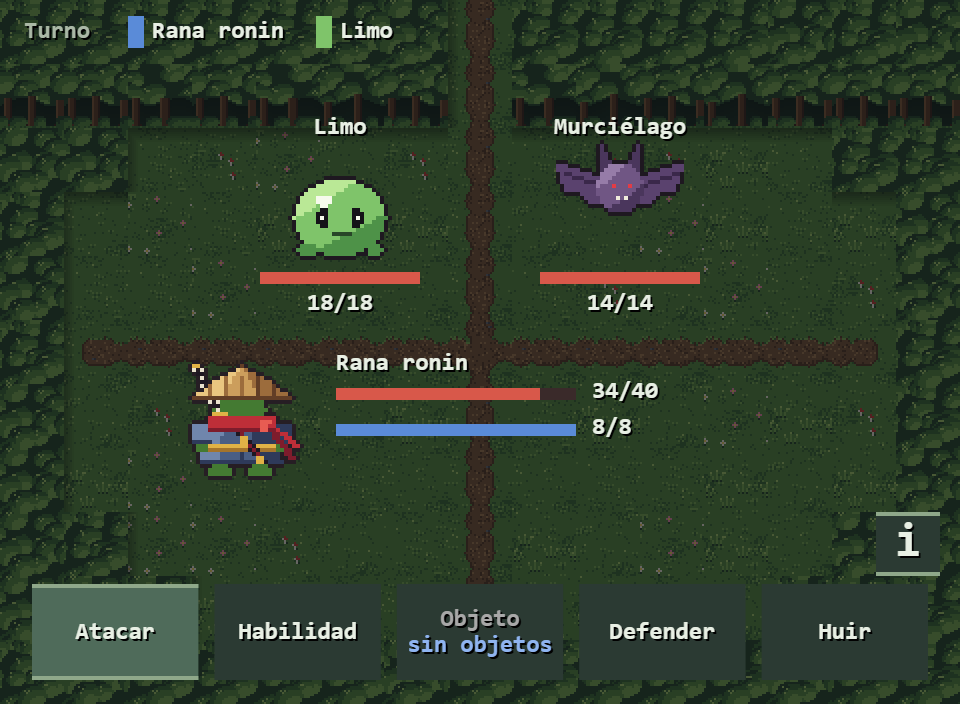
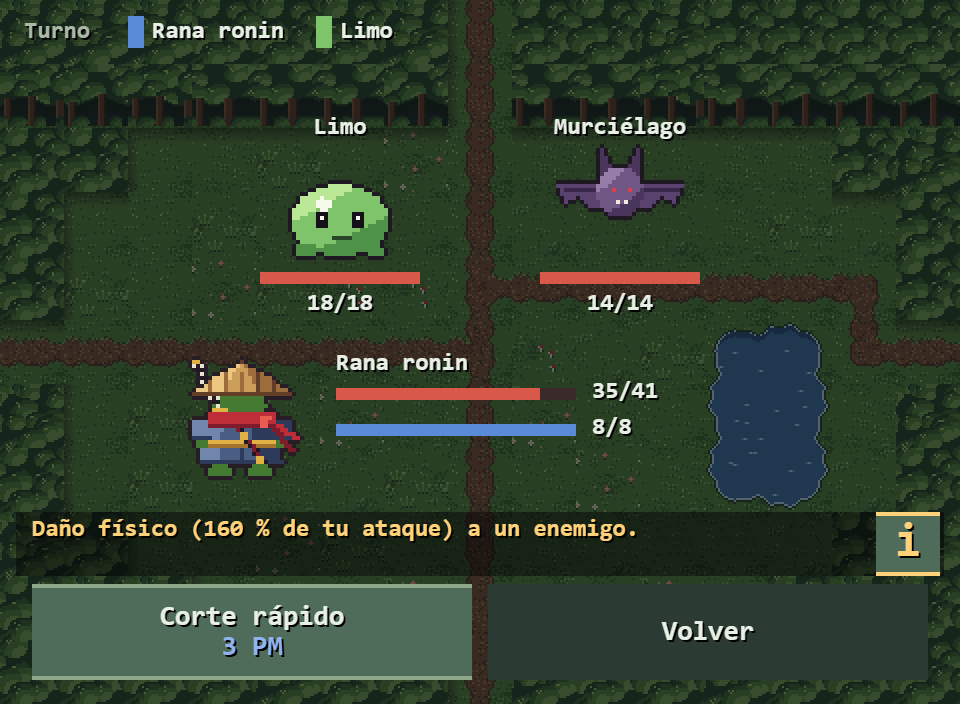
Pociones que no se gastan sin hacer nada, test de salas sin rincones cerrados y capturas nuevas
- Poción, éter y antídoto salen apagados si no harían nada (antes se gastaban y quitaban el logro de ganar sin objetos)
- Test que recorre cada sala de combate píxel a píxel y comprueba que se llega a cada casilla donde puede salir un monstruo
- README: capturas del mapa, del combate con la ayuda y del inventario en pestañas; controles al día

diff --git a/tests/plantillas.test.ts b/tests/plantillas.test.ts
@@ -1,6 +1,10 @@
 import { describe, expect, test } from 'vitest';
 import { crearAzar } from '../src/core/azar';
+import { colocarMonstruos } from '../src/core/monstruos';
+import { colisiona } from '../src/core/movimiento';
 import { construirSala, crearCatalogo, salidas } from '../src/core/sala';
+import { HEROES } from '../src/data/datos';
+import zonas from '../src/data/zonas.json';
 import type { PlantillasJson, TilesetJson } from '../src/core/types';
 import type { TipoSala } from '../src/core/zona';
 import bosque from '../src/data/salas/plantillas_bosque.json';
@@ -15,6 +19,8 @@ import ruinasAuto from '../public/assets/tilesets/ruinas_autotiles.json';
 import ruinasTiles from '../public/assets/tilesets/ruinas.json';
 
 const ZONAS: Record<string, PlantillasJson> = { bosque, ruinas, cripta };
+/** Lado de un tile en píxeles. */
+const TAM = 32;
 const TIPOS: TipoSala[] = ['inicio', 'combate', 'tesoro', 'descanso', 'jefe'];
 // Los JSON de assets traen 'layer' como string; aquí se tratan como el tipo que documentan.
 const TILESETS = {
@@ -71,4 +77,57 @@ describe.each(Object.entries(ZONAS))('plantillas de %s', (zona, plantillas) => {
       for (const o of portales) expect(vistas.has(o.y * sala.ancho + o.x)).toBe(true);
     },
   );
+
+  // Con las puertas cerradas hasta vencer a todos, un monstruo en un rincón al que la heroína no
+  // llega la dejaría encerrada. Se mira píxel a píxel con su caja real (los objetos solo chocan con
+  // su base y a veces se pasa por su lado).
+  test.each(
+    plantillas.plantillas.filter((p) => p.tipo === 'combate').map((p) => [p.id, p.mapa] as const),
+  )('%s: se llega a cada casilla donde puede salir un monstruo', (_, mapa) => {
+    const sala = construirSala(mapa, plantillas, catalogo, crearAzar(1));
+    const lista = salidas(sala.ancho, sala.alto);
+    const { ancho, alto } = HEROES.ronin.caja;
+    const PASO = 2;
+    const columnas = (sala.ancho * TAM) / PASO;
+    const filas = (sala.alto * TAM) / PASO;
+    const libre = (cx: number, cy: number): boolean =>
+      !colisiona(sala, TAM, cx * PASO, cy * PASO, ancho, alto);
+    const [ex, ey] = lista[0]!.entrada;
+    const inicio: [number, number] = [(ex * TAM + TAM / 2) / PASO, (ey * TAM + TAM - 4) / PASO];
+    const vistas = new Set([inicio[1] * columnas + inicio[0]]);
+    const cola = [inicio];
+    while (cola.length > 0) {
+      const [x, y] = cola.pop()!;
+      for (const [dx, dy] of [
+        [0, -1],
+        [1, 0],
+        [0, 1],
+        [-1, 0],
+      ] as const) {
+        const nx = x + dx;
+        const ny = y + dy;
+        if (nx < 0 || ny < 0 || nx >= columnas || ny >= filas) continue;
+        const i = ny * columnas + nx;
+        if (vistas.has(i) || !libre(nx, ny)) continue;
+        vistas.add(i);
+        cola.push([nx, ny]);
+      }
+    }
+    // Todas las casillas posibles: más grupos de los que caben.
+    const candidatas = colocarMonstruos(
+      sala,
+      lista,
+      sala.ancho * sala.alto,
+      zonas.monstruos.distanciaEntradas,
+      crearAzar(1),
+    );
+    for (const [c, f] of candidatas) {
+      // Basta con que la heroína pueda pisar algún punto de la casilla.
+      let llega = false;
+      for (let y = f * TAM; y < (f + 1) * TAM && !llega; y += PASO)
+        for (let x = c * TAM; x < (c + 1) * TAM && !llega; x += PASO)
+          llega = vistas.has((y / PASO) * columnas + x / PASO);
+      expect(llega, `casilla (${c}, ${f})`).toBe(true);
+    }
+  });
 });

diff --git a/src/escenas/combate.ts b/src/escenas/combate.ts
@@ -26,6 +26,7 @@ import {
   describirHabilidad,
   partirEnLineas,
 } from '../core/descripciones';
+import { haceAlgo } from '../core/inventario';
 import { anunciar } from '../render/accesibilidad';
 import { cargarAjustes, guardarAjustes } from '../render/almacen';
 import type { Sprite } from '../render/recursos';
@@ -440,7 +441,8 @@ export class EscenaCombate implements Escena {
           ...this.consumibles().map((clave) => ({
             texto: this.combate.objetos.consumibles[clave]!.nombre,
             detalle: `x${this.cuantos(clave)}`,
-            disponible: this.cuantos(clave) > 0,
+            disponible:
+              this.cuantos(clave) > 0 && haceAlgo(h, this.combate.objetos.consumibles[clave]!),
             ayuda: ayuda(
               describirConsumible(
                 this.combate.objetos.consumibles[clave]!,
@@ -540,6 +542,8 @@ export class EscenaCombate implements Escena {
       if (!clave)
         this.abrir('principal'); // «Volver»
       else if (this.cuantos(clave) === 0) this.registrar('No te queda ninguno');
+      else if (!haceAlgo(h, this.combate.objetos.consumibles[clave]!))
+        this.registrar('Ahora no te hace falta');
       else this.usar({ tipo: 'objeto', clave });
       return;
     }

diff --git a/src/escenas/pausa.ts b/src/escenas/pausa.ts
@@ -1,6 +1,6 @@
 import type { Acciones } from '../core/acciones';
 import { habilidadesDisponibles, type Luchador } from '../core/combate';
-import { aplicarConsumible, gastar, type Inventario } from '../core/inventario';
+import { aplicarConsumible, gastar, haceAlgo, type Inventario } from '../core/inventario';
 import { describirConsumible, partirEnLineas } from '../core/descripciones';
 import { describirEfecto } from '../core/equipo';
 import { experienciaParaSubir } from '../core/progresion';
@@ -261,7 +261,7 @@ export class EscenaPausa implements Escena {
 
   private usar(clave: string): void {
     const obj = this.objetos.consumibles[clave];
-    if (obj && (this.inv.consumibles[clave] ?? 0) > 0) {
+    if (obj && (this.inv.consumibles[clave] ?? 0) > 0 && haceAlgo(this.l, obj)) {
       aplicarConsumible(this.l, obj);
       gastar(this.inv, clave);
     }
@@ -340,7 +340,7 @@ export class EscenaPausa implements Escena {
         opciones.push({
           texto: objetos.consumibles[clave]!.nombre,
           detalle: `x${cuantos}`,
-          disponible: cuantos > 0,
+          disponible: cuantos > 0 && haceAlgo(l, objetos.consumibles[clave]!),
         });
         acciones.push(() => this.usar(clave));
       }

diff --git a/tests/objetos.test.ts b/tests/objetos.test.ts
@@ -19,7 +19,7 @@ import {
   piezasDe,
   ponerPieza,
 } from '../src/core/equipo';
-import { crearInventario, guardar } from '../src/core/inventario';
+import { crearInventario, guardar, haceAlgo } from '../src/core/inventario';
 import type { MonstruoJson } from '../src/core/types';
 import { HEROES, MONSTRUOS, OBJETOS, REGLAS } from '../src/data/datos';
 import zonas from '../src/data/zonas.json';
@@ -51,6 +51,17 @@ describe('inventario', () => {
     expect(guardar(inv, 'pocion', 5)).toBe(false);
     expect(guardar(inv, 'eter', 5)).toBe(true);
     expect(inv.consumibles).toEqual({ pocion: 5, eter: 1 });
+  });
+
+  test('un consumible solo hace algo si falta lo que da (los menús apagan el resto)', () => {
+    const lleno = { pv: 10, pvMax: 10, pm: 5, pmMax: 5, estados: [] };
+    const { pocion, eter, antidoto } = OBJETOS.consumibles;
+    expect(haceAlgo(lleno, pocion!)).toBe(false);
+    expect(haceAlgo({ ...lleno, pv: 9 }, pocion!)).toBe(true);
+    expect(haceAlgo(lleno, eter!)).toBe(false);
+    expect(haceAlgo({ ...lleno, pm: 4 }, eter!)).toBe(true);
+    expect(haceAlgo(lleno, antidoto!)).toBe(false);
+    expect(haceAlgo({ ...lleno, estados: [{ id: 'veneno' }] }, antidoto!)).toBe(true);
   });
 });
 

diff --git a/src/core/inventario.ts b/src/core/inventario.ts
@@ -29,6 +29,21 @@ export function guardar(inv: Inventario, clave: string, maximo: number): boolean
   return true;
 }
 
+/**
+ * ¿Haría algo ahora? Con los PV llenos una poción se gastaría para nada (y contaría como usada, que
+ * quita el logro de ganar sin objetos): los menús la apagan.
+ */
+export function haceAlgo(
+  l: { pv: number; pvMax: number; pm: number; pmMax: number; estados: readonly { id: string }[] },
+  obj: ConsumibleJson,
+): boolean {
+  return (
+    (!!obj.pv && l.pv < l.pvMax) ||
+    (!!obj.pm && l.pm < l.pmMax) ||
+    (!!obj.quitaEstado && l.estados.some((e) => e.id === obj.quitaEstado))
+  );
+}
+
 /** Efecto de un consumible sobre quien lo usa: PV y PM recuperados y estado que quita. */
 export function aplicarConsumible(
   l: { pv: number; pvMax: number; pm: number; pmMax: number },

diff --git a/README.md b/README.md
@@ -8,24 +8,25 @@ Dungeon crawler 2D para navegador y móvil: exploras zonas de salas en tiempo re
 
 | Elige heroína | Explora | Lucha |
 | --- | --- | --- |
-| ![Elección de heroína](docs/capturas/seleccion.png) | ![Sala del Bosque con las puertas cerradas y un grupo de limos](docs/capturas/mapa.png) | ![Combate: la ronin usa Tajo del viento contra un limo y un murciélago](docs/capturas/combate.png) |
+| ![Elección de heroína](docs/capturas/seleccion.png) | ![Sala del Bosque con las puertas cerradas, el aviso de vencer a los monstruos y limos y murciélagos acercándose](docs/capturas/mapa.png) | ![Combate contra un limo y un murciélago: la ronin elige Corte rápido y el panel explica qué hace](docs/capturas/combate.png) |
 | **Enfréntate a los jefes** | **Mejora a tu rana** | **Completa el bestiario** |
-| ![Entrada del Rey Limo](docs/capturas/jefe.png) | ![Pantalla de puntos de mejora](docs/capturas/puntos.png) | ![Bestiario con los monstruos vencidos y el resto en silueta](docs/capturas/bestiario.png) |
+| ![Entrada del Rey Limo](docs/capturas/jefe.png) | ![Inventario en la pestaña Heroína: estadísticas, equipo y habilidades](docs/capturas/inventario.png) | ![Bestiario con los monstruos vencidos y el resto en silueta](docs/capturas/bestiario.png) |
 
 ## Cómo se juega
 
 | Acción | Teclado | Táctil |
 | --- | --- | --- |
 | Moverse y elegir | Flechas o WASD | Joystick (arrastra en cualquier punto) |
-| Correr | Mantén Mayúsculas | Botón » (se queda puesto) |
+| Correr | Mantén Mayúsculas | Lleva el dedo al borde del joystick |
 | Aceptar | Enter, Espacio o Z | Tocar la opción |
 | Inventario (pausa) y volver | Escape o I (X también vuelve) | Botón de la mochila |
-| Qué hace cada opción del combate | I | Botón i (después, un toque elige y otro usa) |
+| Ayuda del combate (encendida al empezar) | I | Botón i (en Habilidad y Objeto, un toque elige y otro usa) |
 | Bestiario y logros (en el título) | I | Botón de arriba a la derecha |
+| Controles (en el título) | ← y Enter | Botón de arriba a la izquierda |
 
 En el móvil se juega mejor en horizontal. En vertical el juego lo recomienda, y con «Jugar así igualmente» se estira a todo el ancho de la pantalla.
 
-Cada zona se genera al entrar (`?semilla=N` en la URL repite una partida). Los monstruos patrullan y te persiguen; si los pillas por la espalda, atacas primero. En combate, fíjate en el golpe cargado que anuncian: es el momento de Defender. Cada nivel da puntos de mejora para repartir (vida, maná, ataque, magia, defensa, velocidad o daño crítico). Encuentra equipo en el botín y en los dos cofres de cada zona (lo que no te pones se guarda en la mochila y se cambia desde el Inventario), y bebe de la fuente una vez por zona. Cada dificultad guarda sus récords; además hay seis logros y un bestiario que se completa venciendo a cada monstruo.
+Cada zona se genera al entrar (`?semilla=N` en la URL repite una partida). Los monstruos patrullan y te persiguen; si los pillas por la espalda, atacas primero. En combate, fíjate en el golpe cargado que anuncian: es el momento de Defender. Cada nivel da puntos de mejora para repartir (vida, maná, ataque, magia, defensa, velocidad o daño crítico). Encuentra equipo en el botín y en los dos cofres de cada zona (lo que no te pones se guarda en la mochila y se cambia desde el Inventario), y bebe de la fuente una vez por zona; el minimapa marca los cofres, la fuente y al jefe. El inventario tiene tres pestañas: Heroína, Objetos y Ajustes (sonido, volumen de música y de efectos, y los controles). Cada dificultad guarda sus récords; además hay seis logros y un bestiario que se completa venciendo a cada monstruo.
 
 ## Qué tiene de interesante por dentro
 
@@ -69,7 +70,7 @@ nenufar/
 ├── src/
 │   ├── core/       # lógica pura: zona, salas, movimiento, combate, IA, progresión, música
 │   ├── data/       # JSON de diseño: héroes, monstruos, zonas, objetos, combate, historia, logros, ritmo, sonido, salas
-│   ├── escenas/    # título, selección, mapa, combate, pausa, equipo, puntos, bestiario y logros, historia (pila de escenas)
+│   ├── escenas/    # título, controles, selección, mapa, combate, inventario, equipo, puntos, bestiario y logros, historia (pila de escenas)
 │   ├── input/      # teclado, joystick y toque como fuentes de acciones abstractas
 │   └── render/     # canvas, sprites, HUD, sonido, accesibilidad y almacenamiento
 ├── public/assets/
